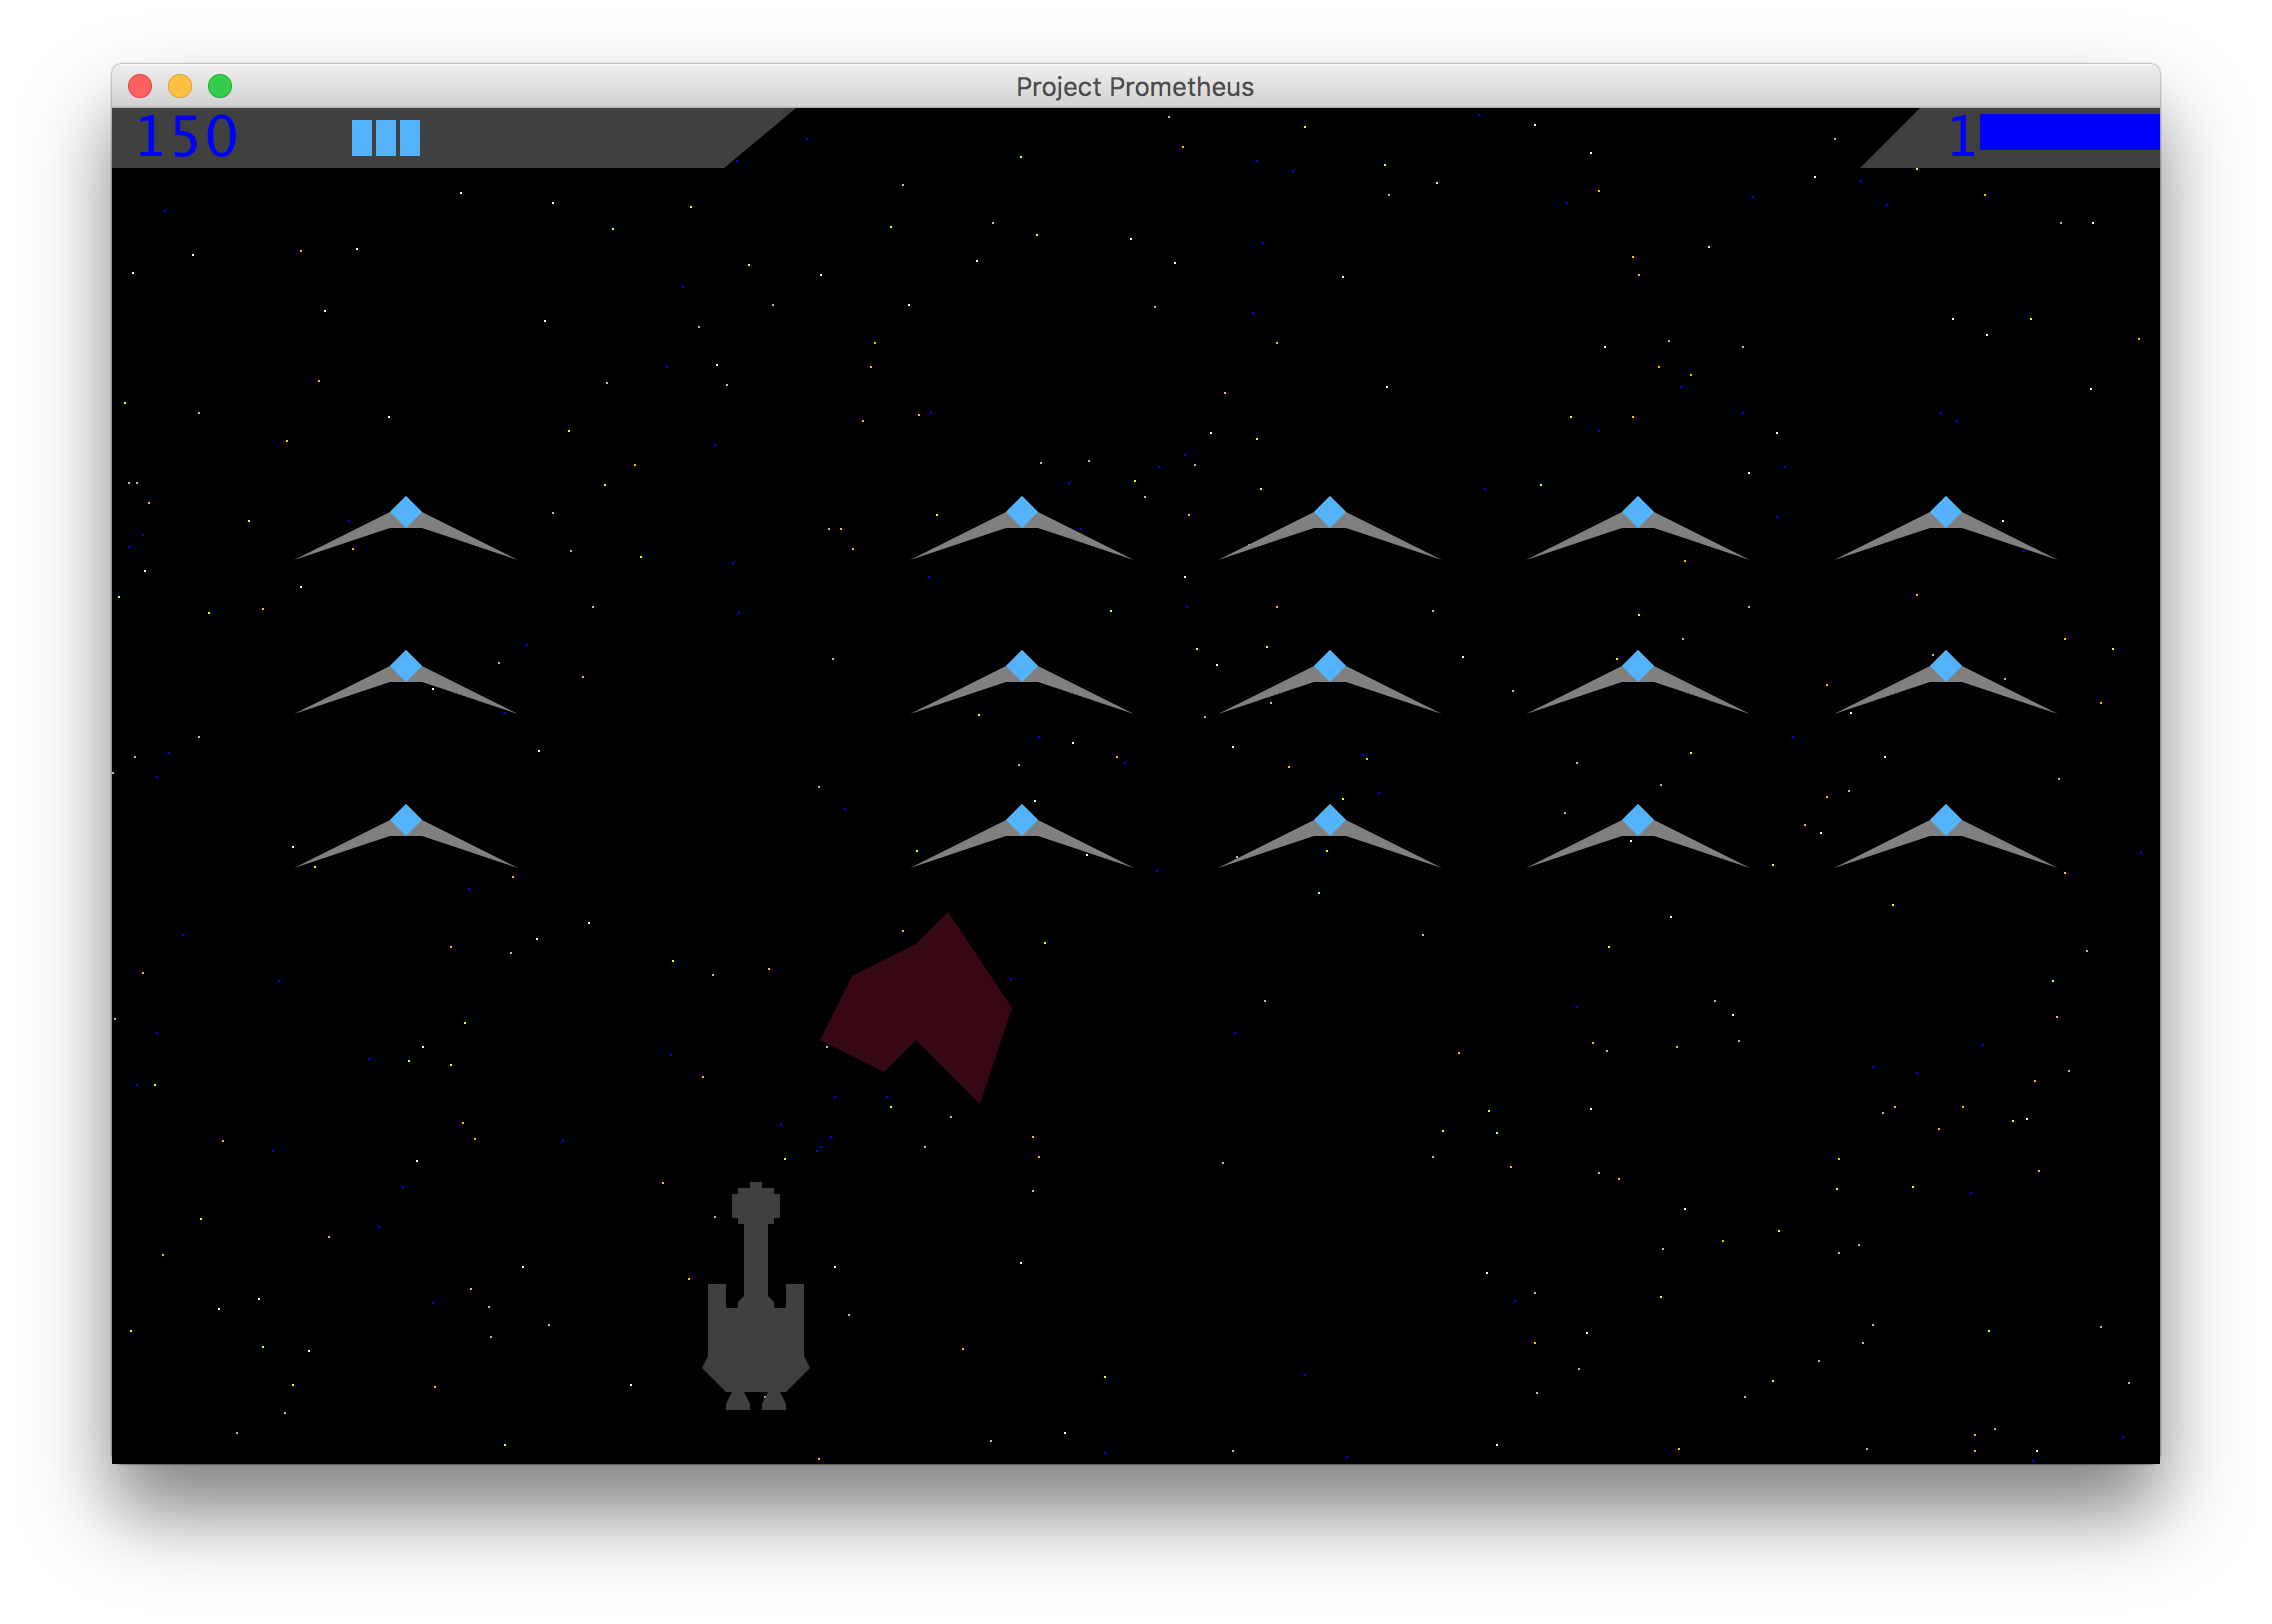
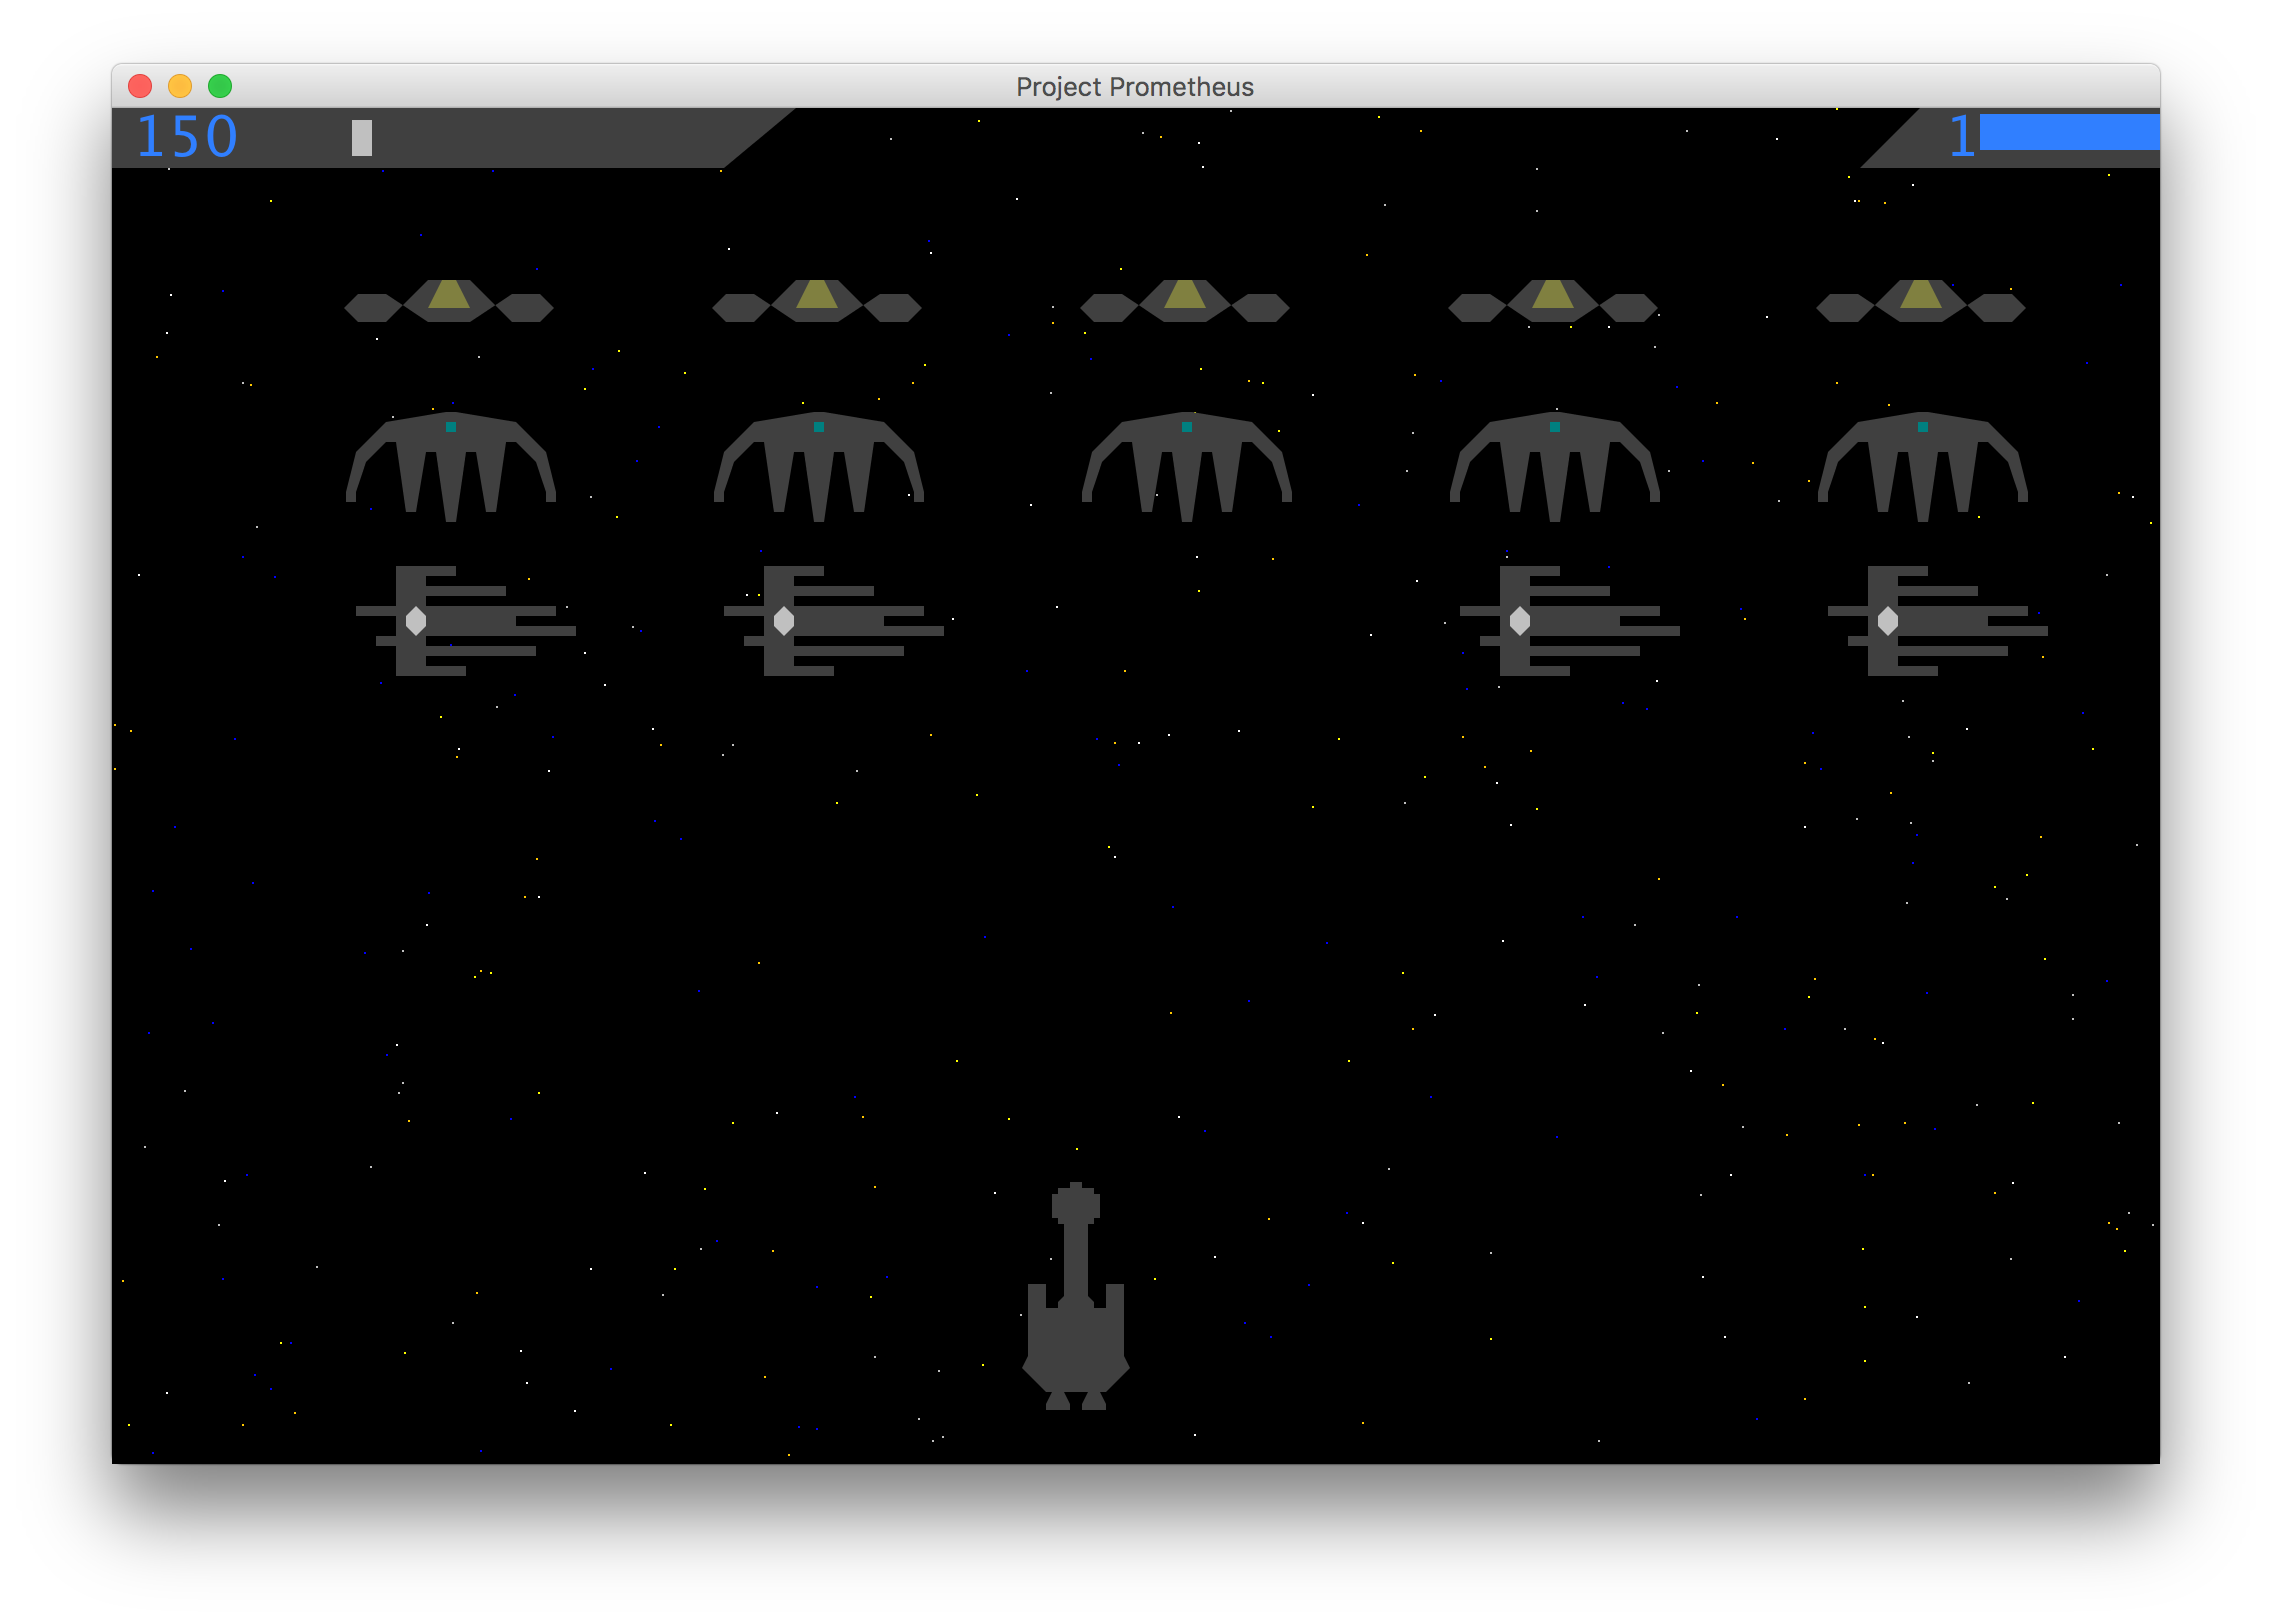
updated image

diff --git a/src/projectprometheus/userInterface/ProjectPrometheus.java b/src/projectprometheus/userInterface/ProjectPrometheus.java
@@ -112,19 +112,19 @@ public class ProjectPrometheus extends AnimationPanel{
     }//=====================================
 
     public void initLevels(){
-        levels.add(new Goauld_Gliders());
-        levels.add(new Goauld_CargoShips());
-        levels.add(new Goauld_Alkesh());
-        levels.add(new Goauld_Motherships());
-        levels.add(new Goauld_Mixed_5());
-        levels.add(new Goauld_Mixed_2());
-        levels.add(new Goauld_Mixed_3());
-        levels.add(new Goauld_Mixed_4());
-        levels.add(new Goauld_Mixed());
-        levels.add(new Goauld_Boss());
-        levels.add(new Replicator_Cruisers());
-        levels.add(new Replicator_Warships());
-        levels.add(new Replicator_Midrange_Warships());
+//        levels.add(new Goauld_Gliders());
+//        levels.add(new Goauld_CargoShips());
+//        levels.add(new Goauld_Alkesh());
+//        levels.add(new Goauld_Motherships());
+//        levels.add(new Goauld_Mixed_5());
+//        levels.add(new Goauld_Mixed_2());
+//        levels.add(new Goauld_Mixed_3());
+//        levels.add(new Goauld_Mixed_4());
+//        levels.add(new Goauld_Mixed());
+//        levels.add(new Goauld_Boss());
+//        levels.add(new Replicator_Cruisers());
+//        levels.add(new Replicator_Warships());
+//        levels.add(new Replicator_Midrange_Warships());
         levels.add(new Replicator_Mixed_2());
         levels.add(new Replicator_Mixed_3());
         levels.add(new Replicator_Mixed_5());
